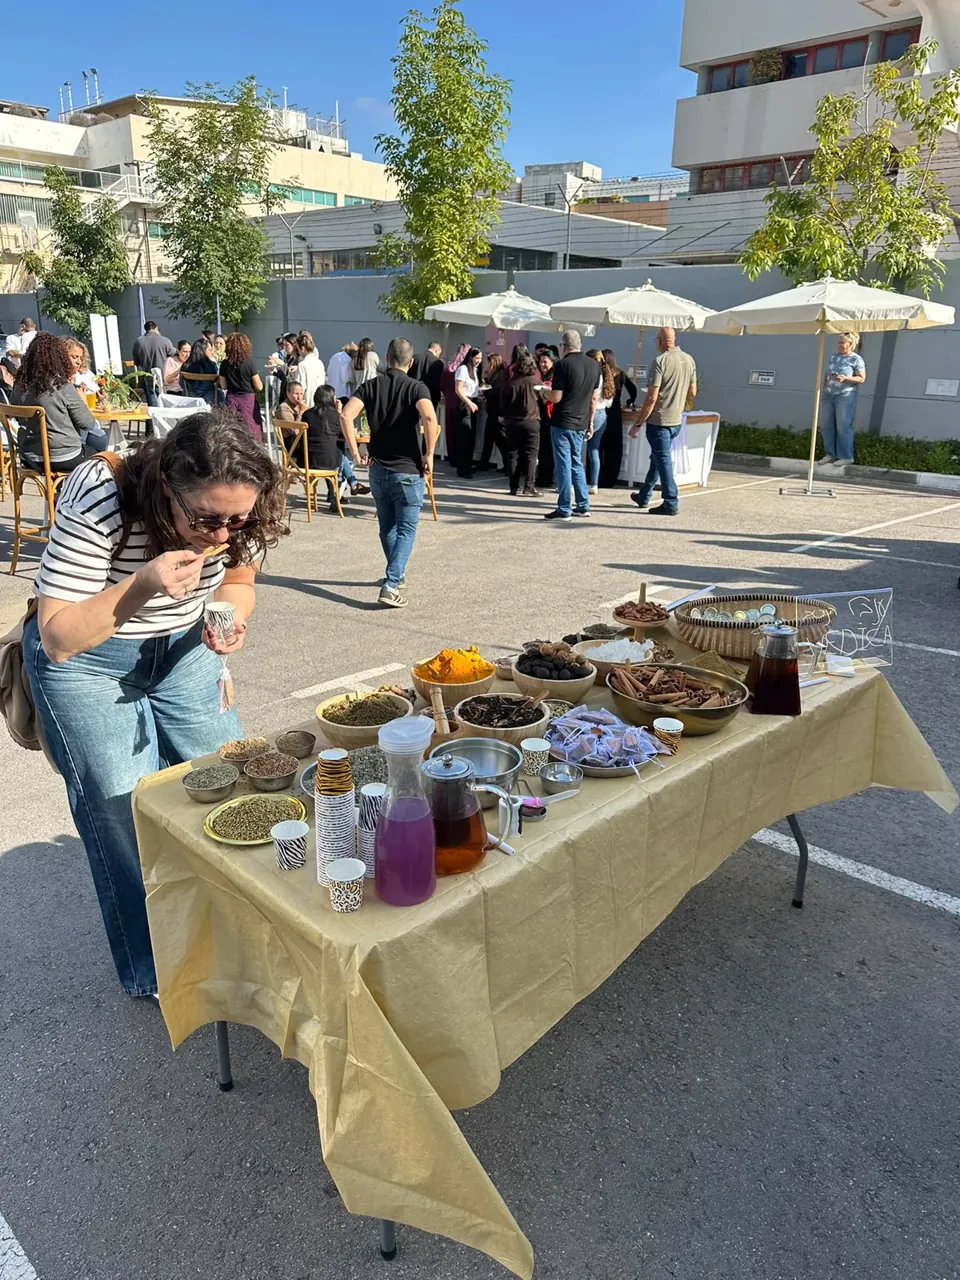
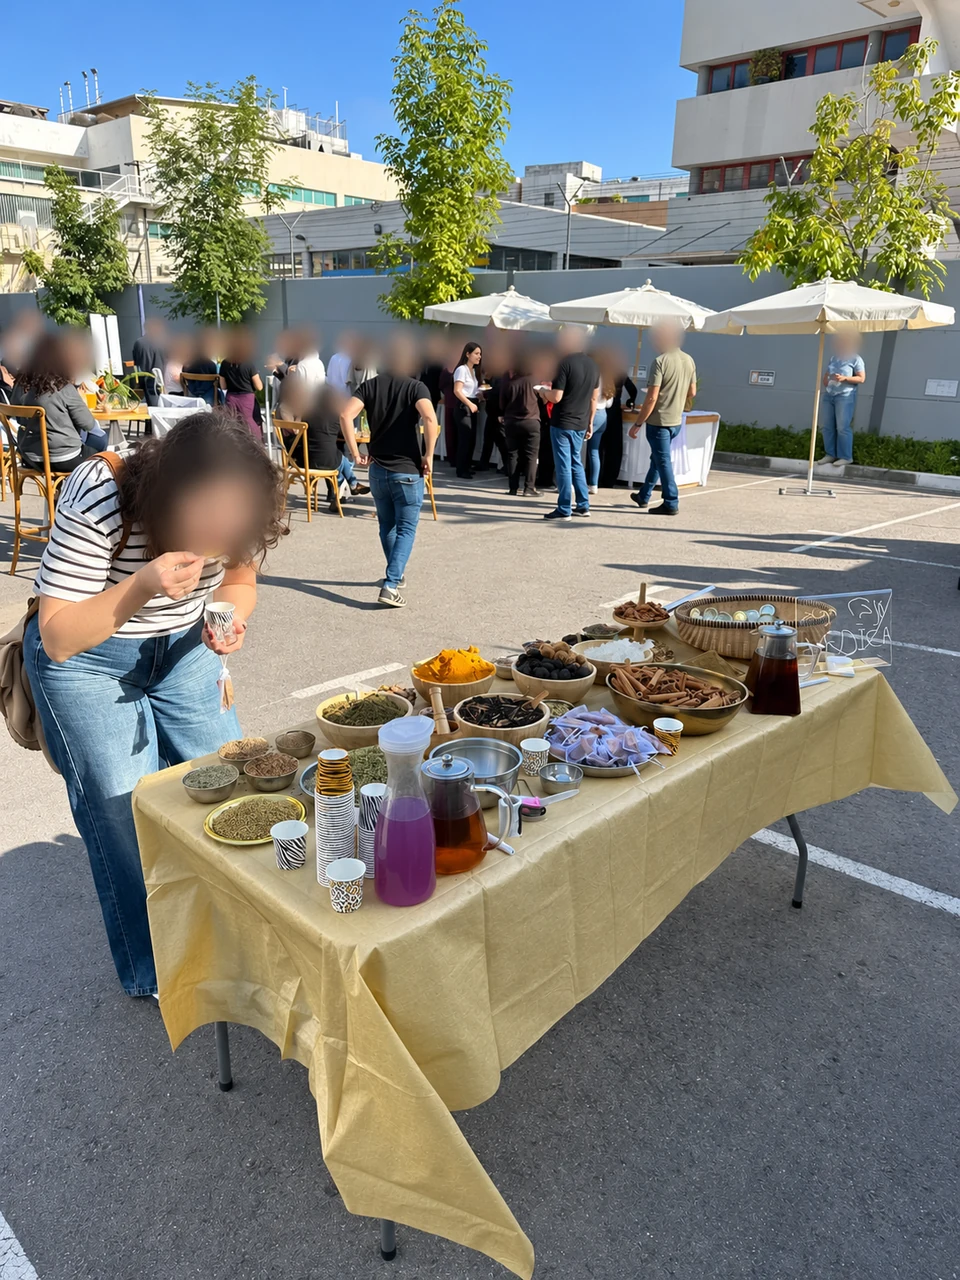
Blur Timora event guest faces

diff --git a/corporate-wellness-lectures.html b/corporate-wellness-lectures.html
@@ -50,7 +50,7 @@
     ],
     "serviceType": "דוכן לונג׳ביטי, איורוודה וטעימות לאירועים, ימי הפעלה וחברות הפקה",
     "description": "דוכני לונג׳ביטי על דרך המשי לחברות הפקה ולאירועים: חליטות, תבלינים וטעימות עם ענבל הנסב, מניסיונה כמטפלת באיורוודה וברפואה פרסית. הצעה מותאמת לאירוע.",
-    "image": "https://vedica-ayurveda.co.il/assets/corporate-timora-inbal-retouched-v3.webp",
+    "image": "https://vedica-ayurveda.co.il/assets/corporate-timora-inbal-retouched-v3.webp?v=privacy-20261117",
     "provider": {
       "@type": "Organization",
       "@id": "https://vedica-ayurveda.co.il/#organization",
@@ -236,7 +236,7 @@
         </div>
       </div>
       <figure class="stall-hero-photo stall-hero-photo--timora">
-<img src="assets/corporate-timora-inbal-retouched-v3.webp" alt="ענבל הנסב משוחחת עם משתתפים בעמדת חליטות ותבלינים באירוע של תימורה" width="960" height="1280" fetchpriority="high">
+<img src="assets/corporate-timora-inbal-retouched-v3.webp?v=privacy-20261117" alt="ענבל הנסב משוחחת עם משתתפים בעמדת חליטות ותבלינים באירוע של תימורה" width="960" height="1280" fetchpriority="high">
 <figcaption>ענבל בעמדת החליטות והתבלינים באירוע של תימורה (Timora)</figcaption>
 </figure>
     </section>
@@ -298,9 +298,9 @@
         <p>טעימות ושיחה עם ענבל באירוע של <a href="https://timora-fund.co.il/" target="_blank" rel="noopener noreferrer">תימורה, קרן נדל״ן</a>. המשתתפים ניגשו לשולחן, הכירו את חומרי הגלם, טעמו חליטות ושאלו שאלות — מפגש פתוח שמחבר בין אנשים, טעמים וסיפורים.</p>
       </div>
       <div class="tour-story__photos stall-event-gallery timora-event-gallery">
-        <figure><img src="assets/corporate-timora-guest-conversation-v3.webp" alt="ענבל מסבירה למשתתפים סביב שולחן החליטות והתבלינים באירוע של תימורה" width="960" height="1280" loading="lazy" decoding="async"><figcaption>עוצרים ליד הדוכן, טועמים ושואלים את ענבל.</figcaption></figure>
+        <figure><img src="assets/corporate-timora-guest-conversation-v3.webp?v=privacy-20261117" alt="ענבל מסבירה למשתתפים סביב שולחן החליטות והתבלינים באירוע של תימורה" width="960" height="1280" loading="lazy" decoding="async"><figcaption>עוצרים ליד הדוכן, טועמים ושואלים את ענבל.</figcaption></figure>
         <figure><img src="assets/corporate-timora-herbs-spices.webp" alt="קערות תבלינים, עלי חליטה, מקלות קינמון וקנקן תה על שולחן הדוכן באירוע תימורה" width="960" height="1280" loading="lazy" decoding="async"><figcaption>צבעים, ריחות וחומרי גלם שמזמינים להכיר מקרוב.</figcaption></figure>
-        <figure><img src="assets/corporate-timora-event-stand.webp" alt="עמדת החליטות והתבלינים במרחב האירוע של תימורה, עם אורחים שטועמים ומשוחחים" width="960" height="1280" loading="lazy" decoding="async"><figcaption>עמדה פתוחה שמשתלבת במרחב האירוע ובקצב של האורחים.</figcaption></figure>
+        <figure><img src="assets/corporate-timora-event-stand.webp?v=privacy-20261117" alt="עמדת החליטות והתבלינים במרחב האירוע של תימורה, עם אורחים שטועמים ומשוחחים" width="960" height="1280" loading="lazy" decoding="async"><figcaption>עמדה פתוחה שמשתלבת במרחב האירוע ובקצב של האורחים.</figcaption></figure>
       </div>
       <p class="stall-gallery-note">מהדוכן באירוע של תימורה. הרכב הטעימות והיקף הפעילות באירוע שלכם יתואמו מראש.</p>
       <div class="lecture-actions"><a href="#production-companies" class="lecture-button" data-analytics-event="corporate_production_quote_click" data-cta-location="timora-event-production">לתיאום דוכן לאירוע שלכם</a></div>

diff --git a/corporate-ayurveda-wellness-tel-aviv.html b/corporate-ayurveda-wellness-tel-aviv.html
@@ -50,7 +50,7 @@
     ],
     "serviceType": "Longevity-themed Ayurveda tasting stands for events, conferences and production companies",
     "description": "Silk Road-inspired event stands with infusions, spices and tastings, drawing on Inbal Hanasab’s experience as an Ayurveda and Persian medicine practitioner.",
-    "image": "https://vedica-ayurveda.co.il/assets/corporate-timora-inbal-retouched-v3.webp",
+    "image": "https://vedica-ayurveda.co.il/assets/corporate-timora-inbal-retouched-v3.webp?v=privacy-20261117",
     "provider": {
       "@type": "Organization",
       "@id": "https://vedica-ayurveda.co.il/#organization",
@@ -215,7 +215,7 @@
 </div>
 </div>
 <figure class="stall-hero-photo stall-hero-photo--timora">
-<img src="assets/corporate-timora-inbal-retouched-v3.webp" alt="Inbal Hanasab speaking with guests at the herbal infusion and spice stand at a Timora event" width="960" height="1280" fetchpriority="high">
+<img src="assets/corporate-timora-inbal-retouched-v3.webp?v=privacy-20261117" alt="Inbal Hanasab speaking with guests at the herbal infusion and spice stand at a Timora event" width="960" height="1280" fetchpriority="high">
 <figcaption>Inbal at the herbal infusion and spice stand at a Timora event</figcaption>
 </figure>
 </section>
@@ -269,9 +269,9 @@
 <p>Tastings and conversation with Inbal at an event for <a href="https://timora-fund.co.il/" rel="noopener noreferrer" target="_blank">Timora, a real estate fund</a>. Guests stopped by the table, explored the ingredients, tasted infusions and asked questions: an open experience connecting people, flavours and stories.</p>
 </div>
 <div class="tour-story__photos stall-event-gallery timora-event-gallery">
-<figure><img alt="Inbal explaining herbal infusions and spices to guests gathered around the tasting table at the Timora event" decoding="async" height="1280" loading="lazy" src="assets/corporate-timora-guest-conversation-v3.webp" width="960"/><figcaption>Guests stop by, taste and ask Inbal questions.</figcaption></figure>
+<figure><img alt="Inbal explaining herbal infusions and spices to guests gathered around the tasting table at the Timora event" decoding="async" height="1280" loading="lazy" src="assets/corporate-timora-guest-conversation-v3.webp?v=privacy-20261117" width="960"/><figcaption>Guests stop by, taste and ask Inbal questions.</figcaption></figure>
 <figure><img alt="Bowls of spices, infusion herbs, cinnamon sticks and a teapot on the stand at the Timora event" decoding="async" height="1280" loading="lazy" src="assets/corporate-timora-herbs-spices.webp" width="960"/><figcaption>Colours, aromas and ingredients to discover up close.</figcaption></figure>
-<figure><img alt="The herbal infusion and spice stand in the Timora event space, with guests tasting and talking" decoding="async" height="1280" loading="lazy" src="assets/corporate-timora-event-stand.webp" width="960"/><figcaption>An open stand that fits the event space and the guests’ pace.</figcaption></figure>
+<figure><img alt="The herbal infusion and spice stand in the Timora event space, with guests tasting and talking" decoding="async" height="1280" loading="lazy" src="assets/corporate-timora-event-stand.webp?v=privacy-20261117" width="960"/><figcaption>An open stand that fits the event space and the guests’ pace.</figcaption></figure>
 </div>
 <p class="stall-gallery-note">From the stand at a Timora event. Tastings and the scope of your event’s activity will be agreed in advance.</p>
 <div class="lecture-actions"><a class="lecture-button" data-analytics-event="corporate_production_quote_click" data-cta-location="timora-event-production" href="#production-companies">Plan a stand for your event</a></div>

diff --git a/workshops.html b/workshops.html
@@ -454,7 +454,7 @@
 
    <div class="workshop-list">
     <article class="workshop-offer">
-     <img src="assets/corporate-timora-inbal-retouched-v3.webp" class="workshop-offer__image" alt="ענבל בעמדת החליטות והתבלינים באירוע של תימורה" loading="lazy" width="960" height="1280">
+     <img src="assets/corporate-timora-inbal-retouched-v3.webp?v=privacy-20261117" class="workshop-offer__image" alt="ענבל בעמדת החליטות והתבלינים באירוע של תימורה" loading="lazy" width="960" height="1280">
      <div class="workshop-offer__content">
       <span class="workshop-offer__status">לחברות הפקה, ימי הפעלה וכנסים</span>
       <h3><a href="corporate-wellness-lectures.html" data-analytics-event="corporate_stall_page_click" data-cta-location="workshops-corporate-card">דוכני לונג׳ביטי ואיורוודה לאירועים</a></h3>
